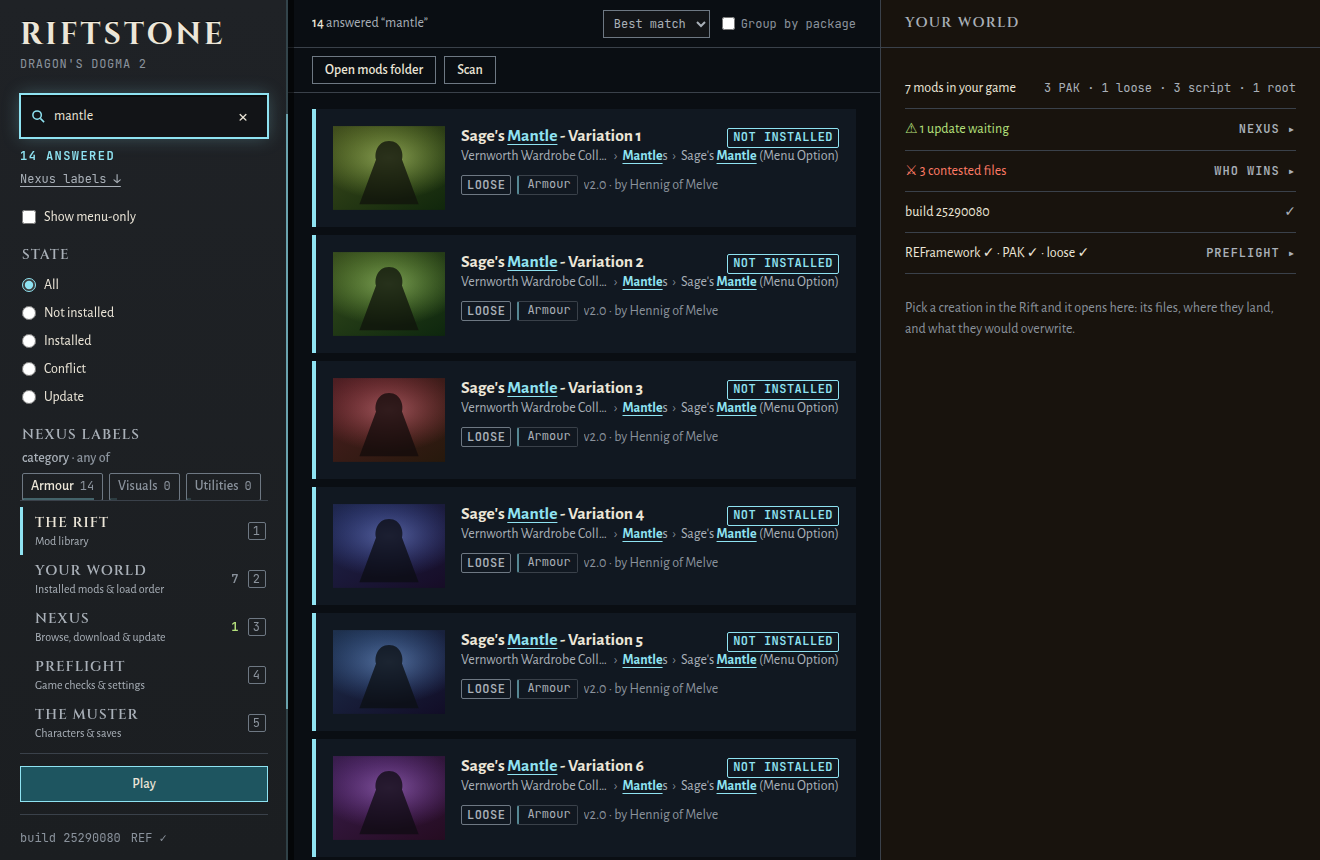
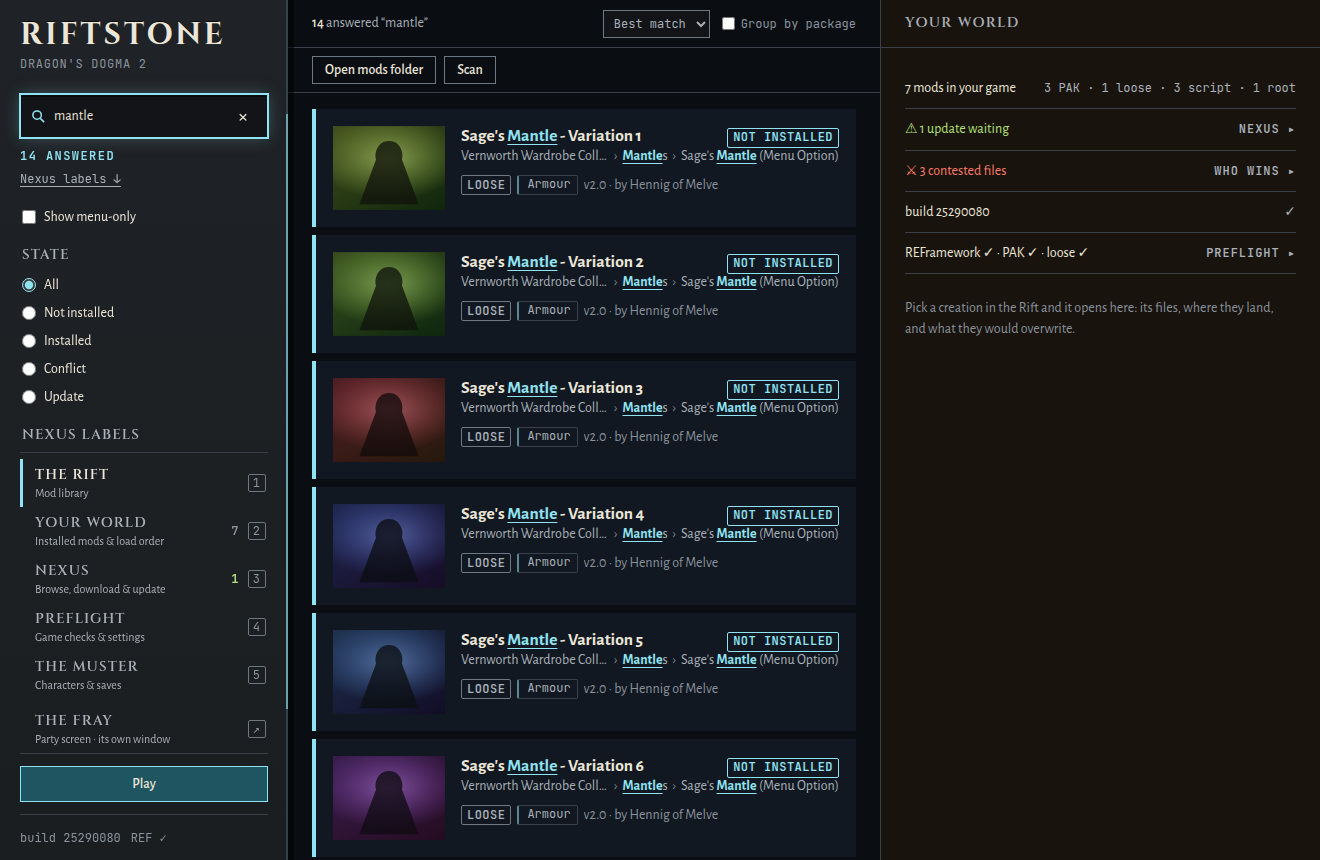
docs(riftstone): the README meets THE FRAY — one bullet, two portrait frames, and all nine frames shot again now that the pillar carries its door
The pillar gained THE FRAY's button on this branch, so every frame that shows the pillar was stale
(the v0.5 lesson: chrome changes stale every frame, not only the feature's). All nine are shot
again in their v0.5 compositions from the mock at 1320 x 860, and two portrait frames of the fray
window join them at 720 x 1280: a fight in progress and the same fight SET IN STONE. 0 page errors
on all eleven, each one looked at; every name in them is invented.

Claude-Session: https://claude.ai/code/session_01HMcw3vmjDMxChzdEj11KxA

Changed region(s): [[0.0, 0.514, 0.2174, 0.8767]]

diff --git a/README.md b/README.md
@@ -14,6 +14,7 @@ The Riftstone is a Windows desktop mod manager for **Dragon's Dogma 2**. Its lib
 - Filter by what Nexus calls a mod. Each linked mod's category and tags come home with that same check. Press categories in the stone (any of them) or tags (all of them), and every chip tells you how many answers it gives. The screenshots of mods Nexus flags adult, and of anything it has not labelled yet, can stay blurred until you hover. A download Nexus cannot recognise by its bytes (an unpacked folder, a repack) can be found by name, and you pick the right mod from up to five.
 - Download an update and the stone knows it is the same mod's newer version, because Nexus says so (the same mod and file group), never because two names look alike. The Rift and the update list show the mod once, the newest version leading and the older ones inside it. Installing the newer version takes the older one's place in one step, keeping its place in the load order, and puts the older archive away in a folder beside your mods folder, `mods (older versions)`, from where one press brings it back. *Keep only the newest* cleans up versions installed one over another.
 - Open THE MUSTER and the stone reads your party from your own save slots, the way a Riftstone in the game shows you a pawn: the Arisen, the main pawn and the hired pawns, each with level, vocation, the experience in every vocation, the stats their levels gave, everything they wear by slot, the augments and skills set for the vocation in use, a pawn's inclination and specialization, and your gold and Rift Crystals. It opens on the character you picked last (your Arisen with their main pawn), at their newest save, and keeps their other saves in a menu. The names come from your own game install, read where they live. Keep the stone open while you play and it notices when the game saves, follows the character into the newer save, and marks what changed.
+- Open THE FRAY and the stone puts a party screen in its own window, made to stand on a second monitor while you play: each member's damage per second and share of the fight, the skills it came from, named from your own game install, and when the fight settles, its record with hits, biggest hits, the last blow and the seven damage types, beside the last five fights. Its numbers come from a small read-only REFramework script that writes what the game reports about each hit. The stone checks itself against the game's own count of the party's damage and says how close it came.
 - Give it your personal Nexus key and it shows your account, tracks and endorses mods, and downloads files straight into the mods folder: a newer version from the update list, any file of a mod, or a mod you found by browsing Nexus from the stone. A premium account downloads in the stone. A free account presses Nexus's own Mod Manager Download button, which reaches the stone once you turn on its link handler. A download lands in the mods folder; installing it stays your choice.
 
 <p>
@@ -33,6 +34,11 @@ The Riftstone is a Windows desktop mod manager for **Dragon's Dogma 2**. Its lib
 <p>
   <img src="docs/images/riftstone-muster.png" width="49%" alt="THE MUSTER by character: Odalric and Wren, picked and followed on their newest save, Slot 9, with Aldith and Corvin below and two saves that won't open set apart. The head's slot button opens the character's other saves. The party's four tabs, and Odalric's sheet: eight gear rows with an empty sub weapon, the gains from levels with the party's most marked, three vocations by experience, three augments and three skills.">
   <img src="docs/images/riftstone-muster-hired.png" width="49%" alt="A hired pawn's sheet on THE MUSTER, cold where the party's own are warm: Bramble, a Sorcerer whose creator is a Lv 52 Warrior, with an inclination, no specialization, three empty gear slots and four augments.">
+</p>
+
+<p>
+  <img src="docs/images/riftstone-fray.png" width="49%" alt="THE FRAY in a portrait window, mid-fight against Thornjaw ×3: the party at 366 per second over a bar split among its members, then one card each for Odalric, Wren, Bramble and Sable with their damage per second, share, and the two skills that did most, Sable's healing counted as used without damage, the unattributed remainder, and the stone's count of the party against the game's own, 99.4%.">
+  <img src="docs/images/riftstone-fray-settled.png" width="49%" alt="The same fight SET IN STONE: each card's record lists its skills by share, hits and biggest hit, with an action the game has no name for shown by its id, the last blow and the biggest hit marked, Skills and Damage types to switch between, and the recent fights below.">
 </p>
 
 *Every name in these frames is invented. They were shot from the window's mock backend (`npm run dev`), never from a real library.*
